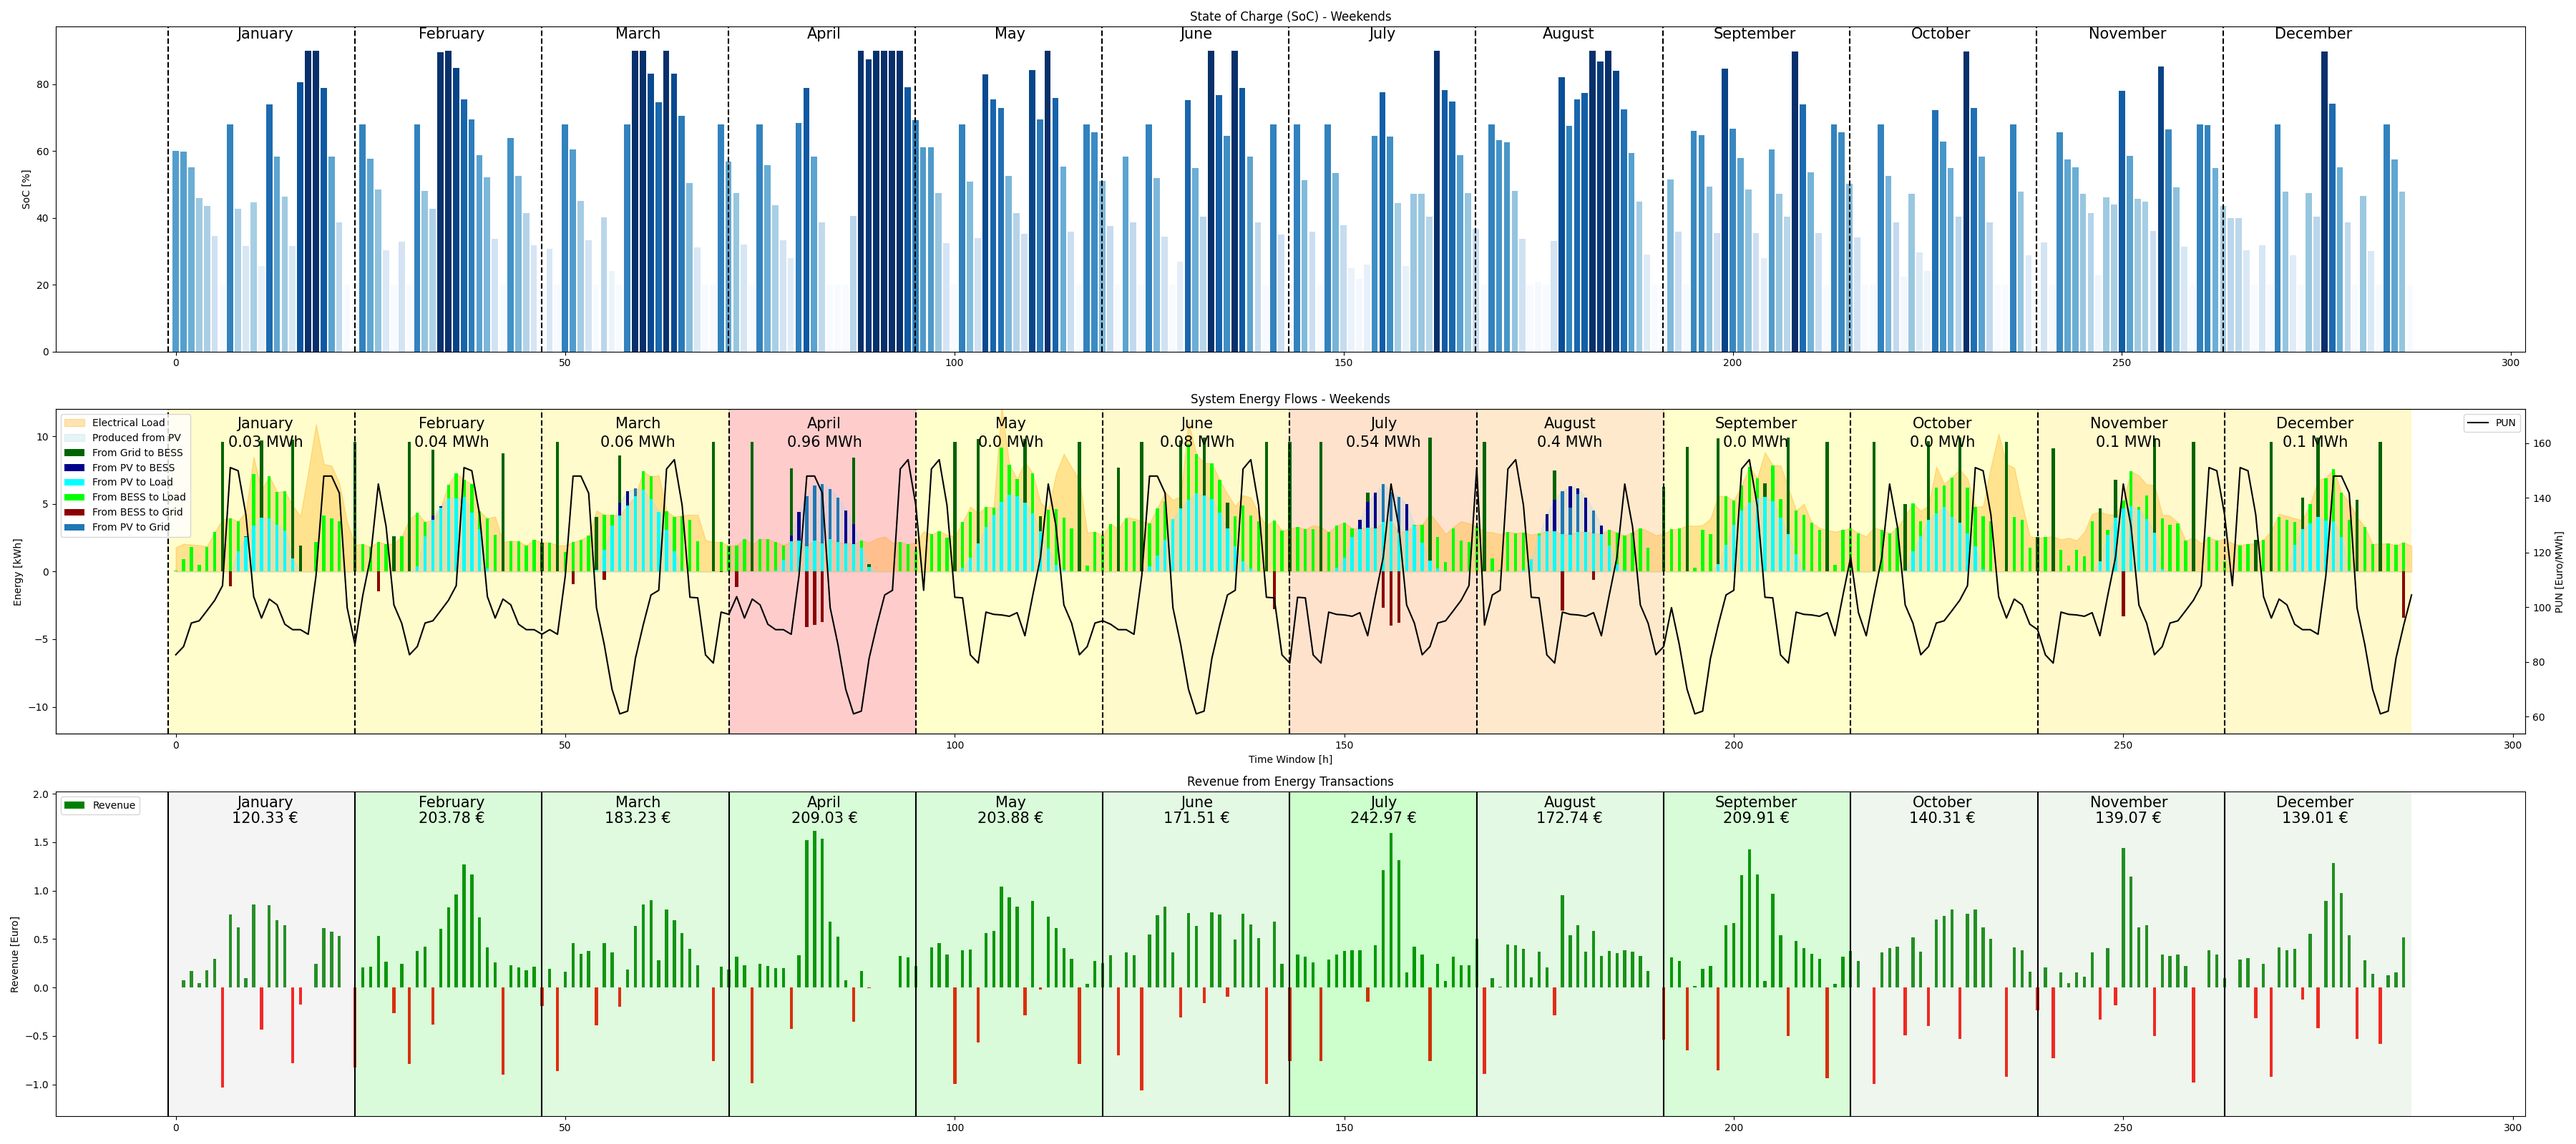
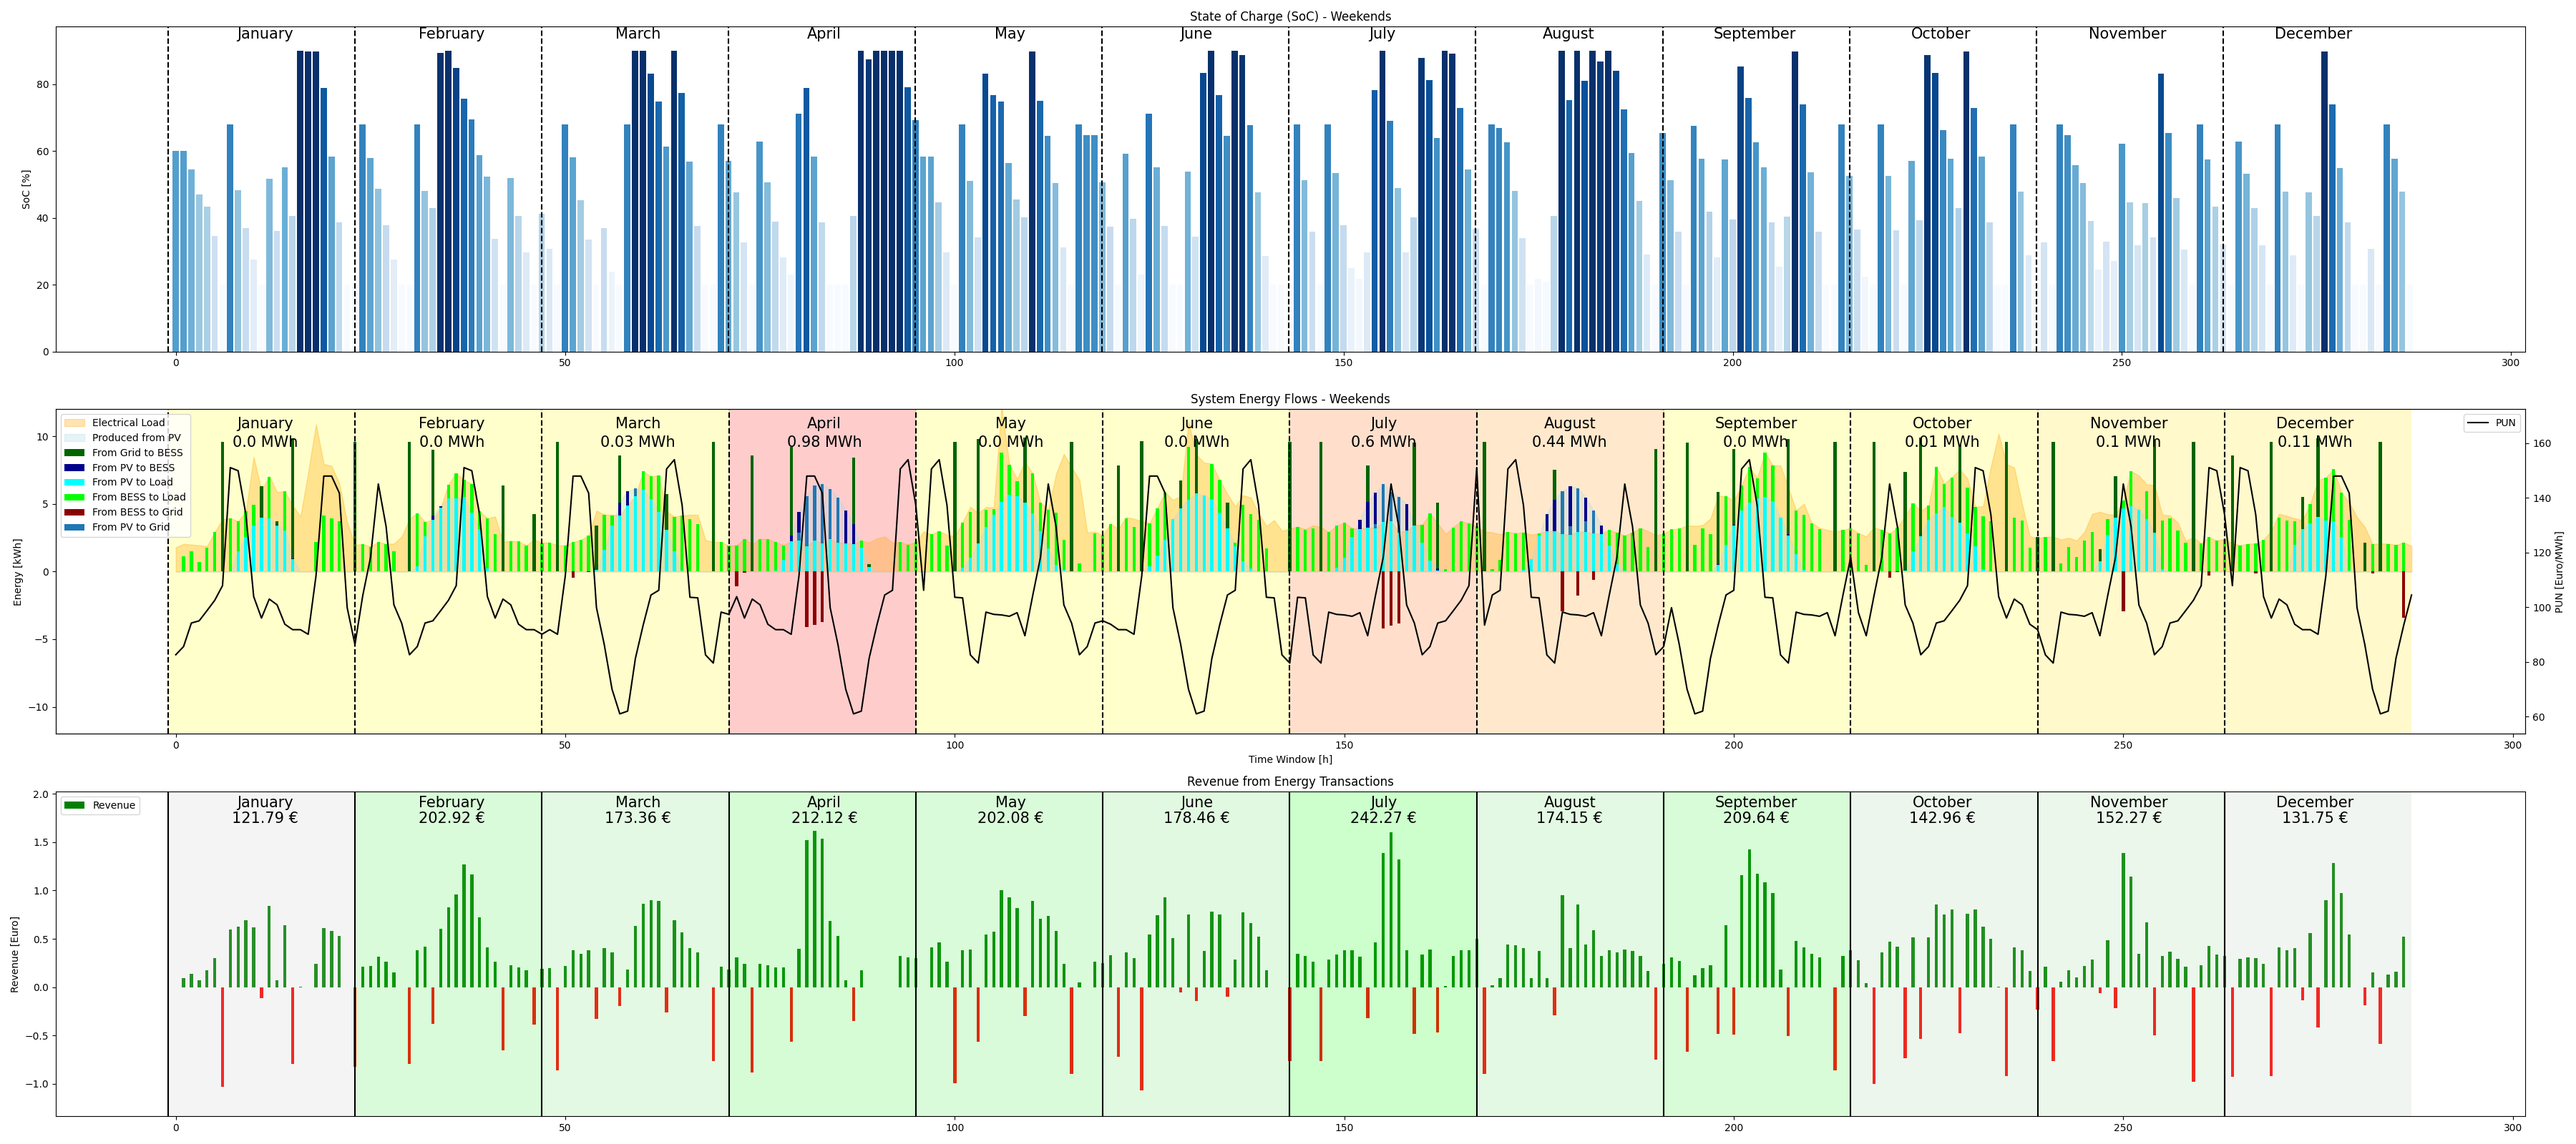
Updated parameters of crossover and mutation

diff --git a/bess_optimization/short_simulation/Optimizer_s.py b/bess_optimization/short_simulation/Optimizer_s.py
@@ -1,6 +1,4 @@
-"""
-
-BESS Optimization using NSGA-III Algorithm
+""" BESS Optimization using NSGA-III Algorithm
 
     __author__ = "Lorenzo Giannuzzo"
     __maintainer__ = "Lorenzo Giannuzzo"
@@ -9,25 +7,65 @@ BESS Optimization using NSGA-III Algorithm
     __version__ = "v0.2.1"
     __license__ = "MIT"
 
-Last Update of current code: 09/01/2025 - 17:38
+Last Update of current code: 25/02/2025 """
 
-"""
-
-# IMPORT LIBRARIES
+# IMPORT LIBRARIES AND MODULES
 import configuration_s
+import numpy as np
 from pymoo.optimize import minimize
 from objective_function_s import Revenues
 from configuration_s import plot
-from pymoo.config import Config
-Config.warnings['not_compiled'] = False
+from pymoo.operators.crossover.sbx import SBX
+from pymoo.operators.mutation.pm import PM
+from pymoo.optimize import minimize
 
+from pymoo.termination import get_termination
+from pymoo.problems import get_problem
+
+
+
+class CustomCallback:
+    def __init__(self, update_interval):
+
+        self.update_interval = update_interval
+        self.new_eta_crossover = configuration_s.eta_crossover
+        self.new_prob_crossover = configuration_s.prob_crossover
+        self.new_eta_mutation = configuration_s.eta_mutation
+        self.new_prob_mutation = configuration_s.prob_mutation
+
+    def __call__(self, algorithm):
+        generation = algorithm.n_gen
+        if generation % self.update_interval == 0:
+            # Calculate diversity or performance metrics
+            population = algorithm.pop.get("X")  # Get the population
+            diversity = self.calculate_diversity(population)
+
+            # Update parameters based on diversity
+            if diversity < 0.1:  # If diversity is low, increase eta
+                self.new_eta_crossover *= 1.1  # Increase eta for crossover
+                self.new_eta_mutation *= 1.1  # Increase eta for mutation
+            else:  # If diversity is high, decrease eta to encourage convergence
+                self.new_eta_crossover *= 0.9
+                self.new_eta_mutation *= 0.9
+
+            # Create new instances of crossover and mutation with updated parameters
+            algorithm.mating.crossover = SBX(eta=self.new_eta_crossover, prob=self.new_prob_crossover)
+            algorithm.mating.mutation = PM(eta=self.new_eta_mutation, prob=self.new_prob_mutation)
+
+            print(f"Generation: {generation}, New eta Crossover: {self.new_eta_crossover}, New eta Mutation: {self.new_eta_mutation}, Diversity: {diversity}")
+
+    def calculate_diversity(self, population):
+        # Calculate diversity as the average distance between individuals
+        distances = np.linalg.norm(population[:, np.newaxis] - population, axis=2)
+        diversity = np.mean(distances)
+        return diversity
 
 # DEFINE OPTIMIZER CLASS
 class Optimizer:
 
     def __init__(self, objective_function: Revenues, pop_size: int, multiprocessing=True):
-        # MULTIPROCESSING CAN BE DISABLED TO COMPARE ALGORITHMS EXECUTION TIMES
 
+        # MULTIPROCESSING CAN BE DISABLED TO COMPARE ALGORITHMS EXECUTION TIMES
         self._objective_function = objective_function
         self.pop_size = pop_size
         self.multiprocessing = multiprocessing
@@ -38,12 +76,12 @@ class Optimizer:
         if plot:
 
             # SAVE OPTIMIZATION HISTORY IF PLOTS ARE REQUIRED
-
             history = True
 
         else:
-
             history = False
+
+        callback = CustomCallback(20)
 
         if self.multiprocessing:
 
@@ -52,21 +90,19 @@ class Optimizer:
             termination = configuration_s.termination
 
             res = minimize(
-
                 problem,
                 algorithm,
                 termination,
                 seed=42,
                 verbose=True,
                 save_history=history,
-
+                callback=callback
             )
 
             # VISUALIZE EXECUTION TIME
             print('Execution Time:', res.exec_time)
 
         else:
-
             problem = self._objective_function
             algorithm = configuration_s.algorithm
             termination = configuration_s.termination
@@ -78,6 +114,7 @@ class Optimizer:
                 seed=42,
                 verbose=True,
                 save_history=True,
+                callback = callback
             )
 
             # VISUALIZE EXECUTION TIME

diff --git a/bess_optimization/short_simulation/configuration_s.py b/bess_optimization/short_simulation/configuration_s.py
@@ -7,7 +7,7 @@
     __version__ = "v0.2.1"
     __license__ = "MIT"
 
-Last Update of current code: 21/02/2025 """
+Last Update of current code: 12/03/2025 """
 
 # IMPORT LIBRARIES AND MODULES FROM PROJECT FILES
 import numpy as np
@@ -73,7 +73,7 @@ xl = [-max_discharge] * time_window + [0.0] * time_window
 xu = [max_charge] * time_window + [+1.0] * time_window
 
 # 8) DEFINE NUMBER OF GENERATIONS
-n_gen = 3000
+n_gen = 1000
 
 # 8-bis) DEFINE TOLERANCE
 tolerance = 0.01
@@ -138,7 +138,9 @@ elif algorithm_type == "UNSGA3":
         seed=seed,
         n_offsprings = n_offsprings,
 
+
     )
+
 else:
     raise ValueError(f"Algorithm '{algorithm_type}' is not recognized.")
 

diff --git a/bess_optimization/short_simulation/Plots_s.py b/bess_optimization/short_simulation/Plots_s.py
@@ -1120,7 +1120,7 @@ class EnergyPlots:
             cmap = matplotlib.colors.LinearSegmentedColormap.from_list("", ["lightblue", "steelblue", "darkblue"])
 
             # Plot SoC
-            ax0.bar(time_steps[week], soc[week] * 100, color=cmap(norm(soc[week])), width=width)
+            ax0.bar(time_steps[week], soc[week].item() * 100, color=cmap(norm(soc[week])), width=width)
             ax0.set_title(f'Typical Day of {month_names[i]} - State of Charge', fontsize=14)
             ax0.set_ylabel('SoC [%]', fontsize=12)
             # Set limits for SoC
